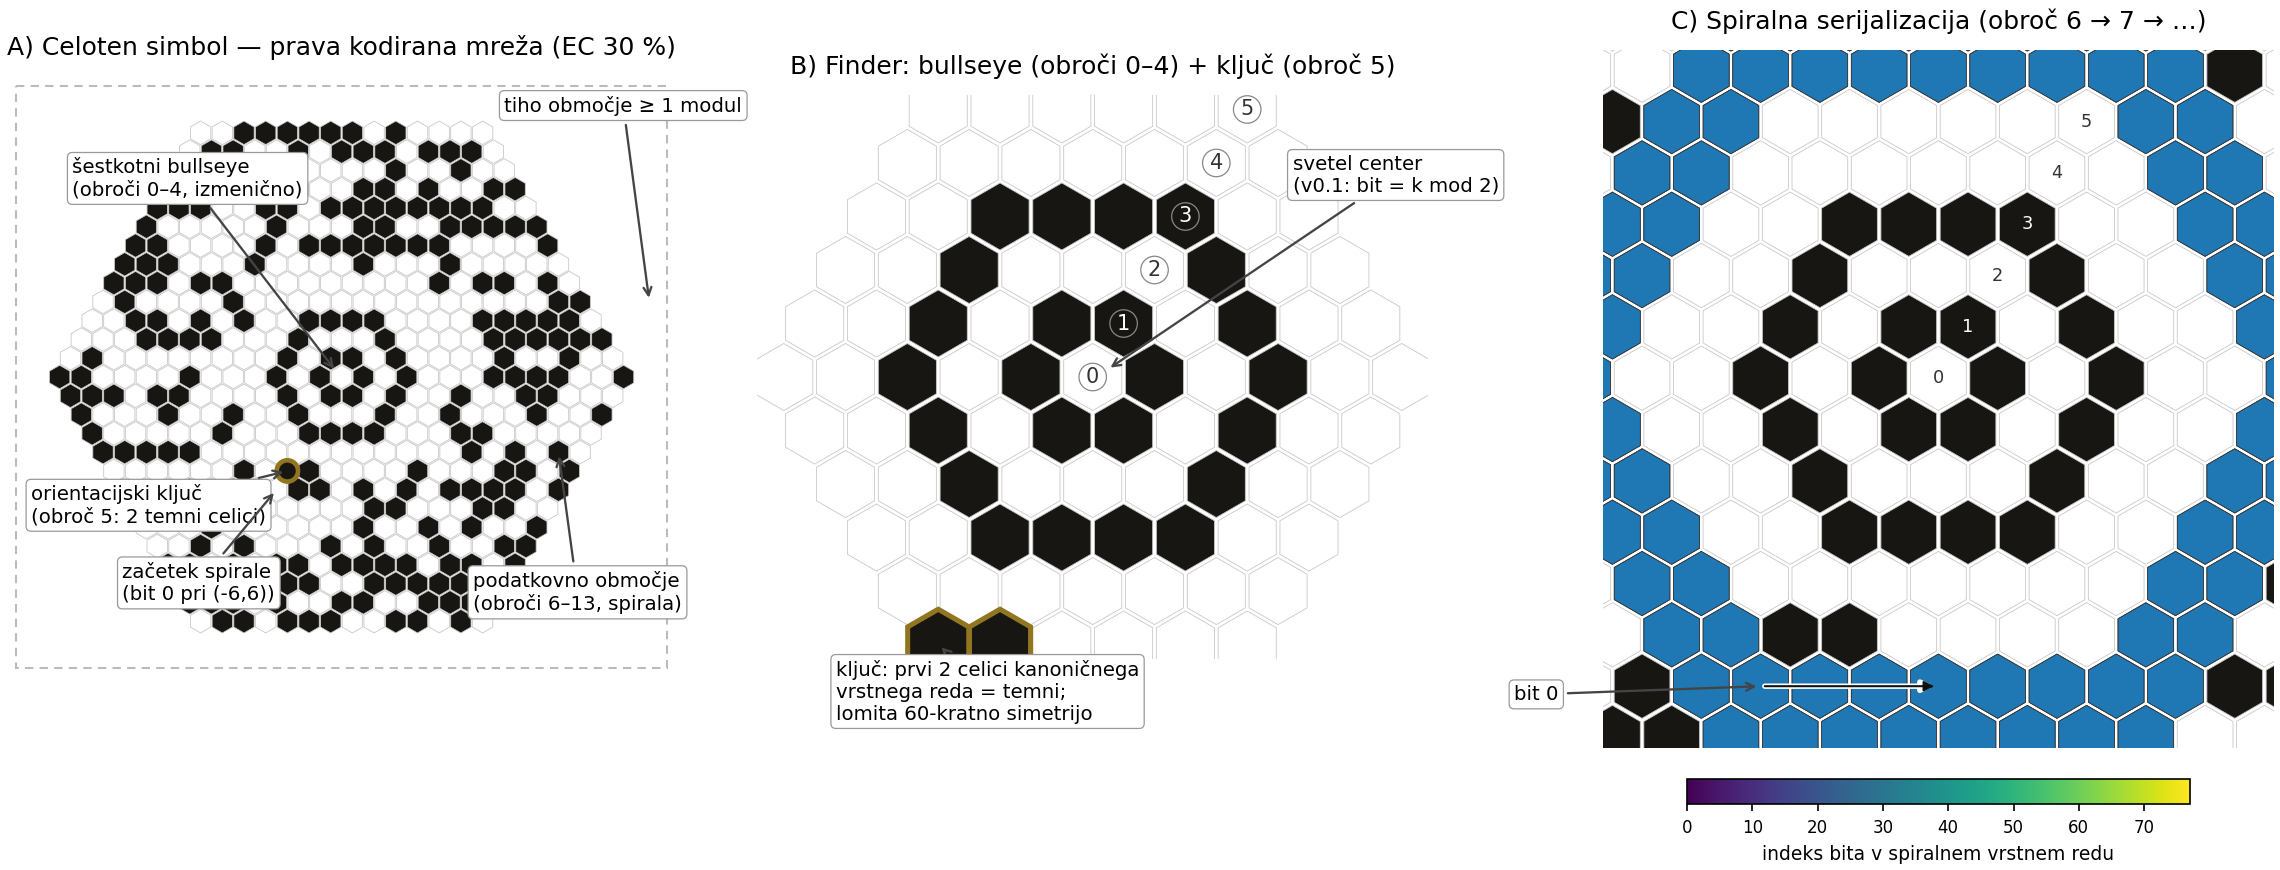
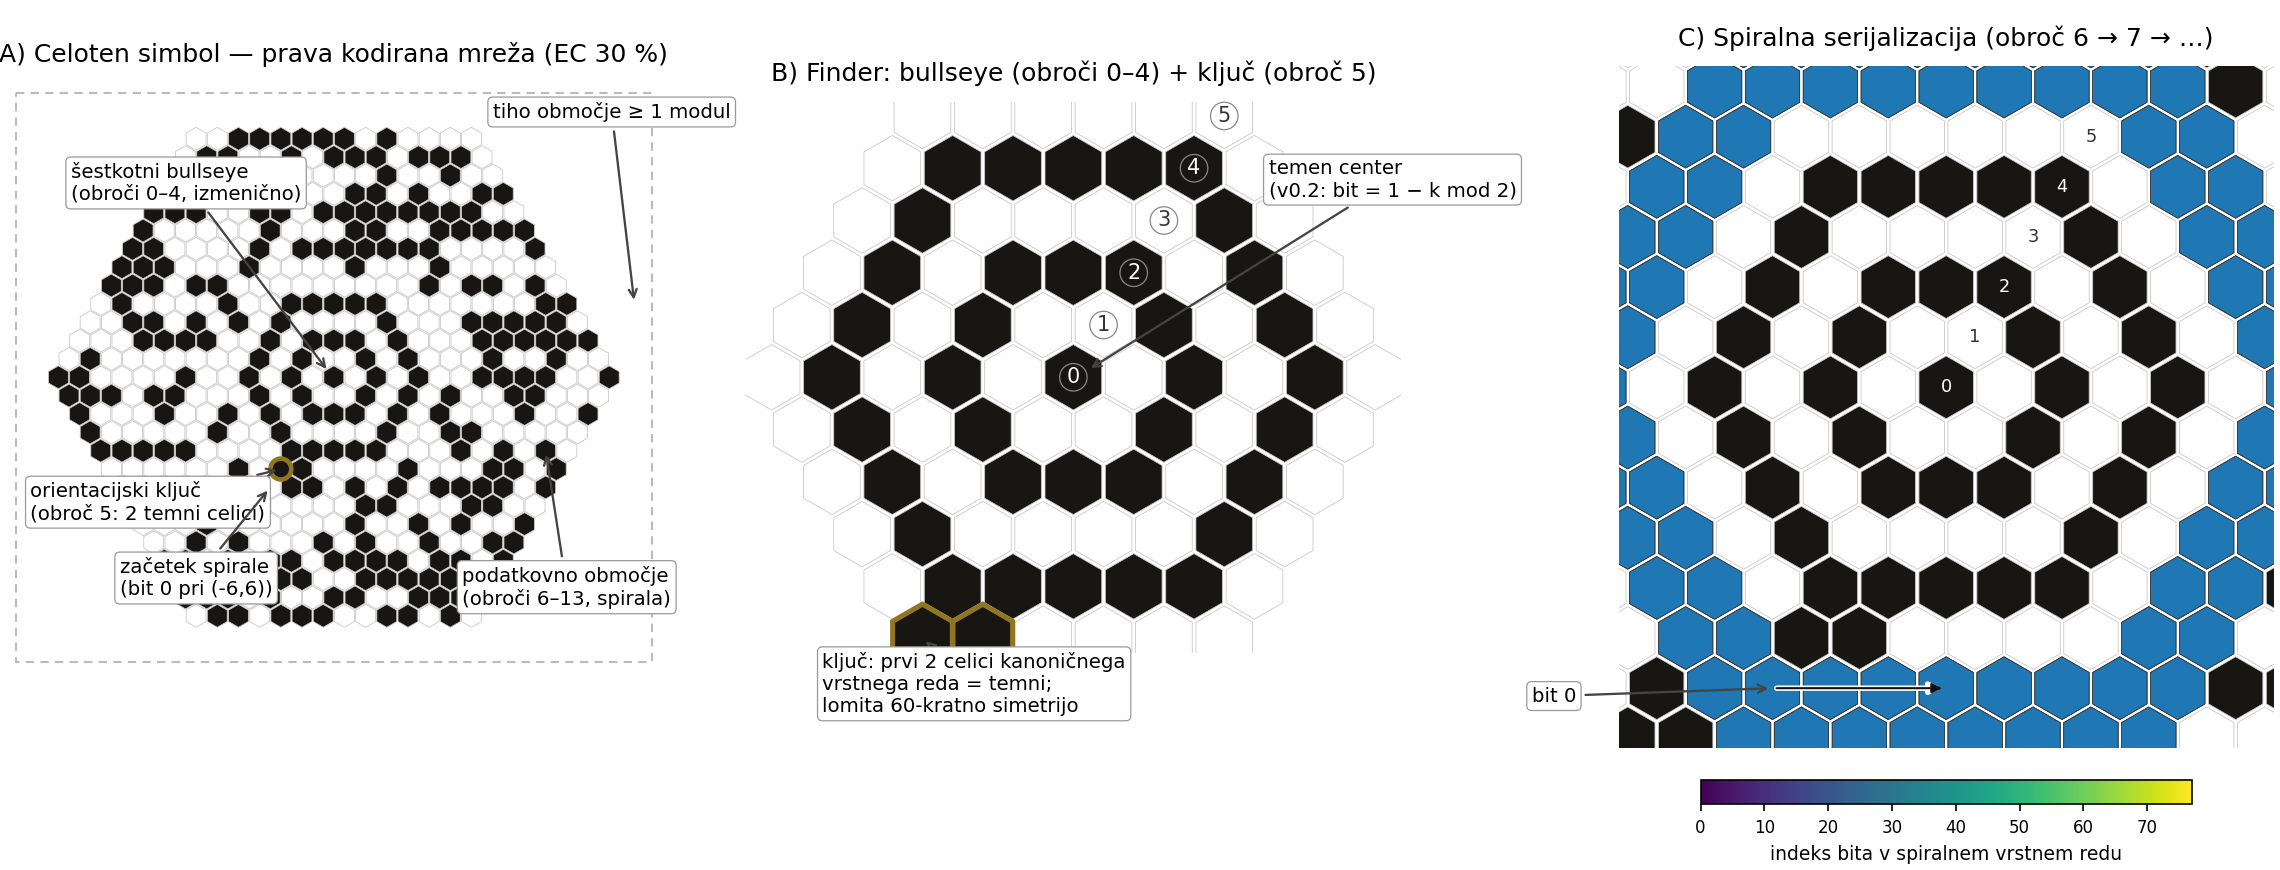
v0.2.0: dark bullseye centre (breaking format change)

diff --git a/test_vectors/generate_vectors.py b/test_vectors/generate_vectors.py
@@ -1,8 +1,8 @@
 #!/usr/bin/env python3
-"""Generate / verify conformance test vectors for Hexatess Code v0.1.
+"""Generate / verify conformance test vectors for Hexatess Code v0.2.
 
-The committed file ``vectors_v0.1.json`` lets independent implementations
-(any language) verify conformance to specification v0.1:
+The committed file ``vectors_v0.2.json`` lets independent implementations
+(any language) verify conformance to specification v0.2:
 
 * ``encode_vectors`` -- fixed inputs (text, ec_pct) with the expected
   symbol parameters, protected mode message and the full canonical grid
@@ -41,7 +41,7 @@ from hexatess import (                      # noqa: E402
 )
 
 HERE = os.path.dirname(os.path.abspath(__file__))
-VECTOR_FILE = os.path.join(HERE, "vectors_v0.1.json")
+VECTOR_FILE = os.path.join(HERE, "vectors_v0.2.json")
 
 GENERATED = "2026-08-30"
 
@@ -52,7 +52,7 @@ ENCODE_CASES = [
     ("hello", "Hello, Hexatess!", 30),
     ("utf8_slo", "ŠČŽ življenje je kodiranje", 30),
     ("utf8_emoji", "bee \U0001F41D hive", 50),
-    ("mid", "Hexatess Code v0.1 reference vector", 55),
+    ("mid", "Hexatess Code v0.2 reference vector", 55),
     ("digits", "1234567890" * 8, 10),
     ("url", "https://example.org/hexatess", 25),
     ("min_ec", "compact", 5),
@@ -194,7 +194,7 @@ def build_vectors():
 def main(argv=None):
     ap = argparse.ArgumentParser(description=__doc__)
     ap.add_argument("--write", action="store_true",
-                    help="write vectors_v0.1.json")
+                    help="write vectors_v0.2.json")
     ap.add_argument("--verify", action="store_true",
                     help="verify committed vectors against the library")
     args = ap.parse_args(argv)

diff --git a/src/hexatess/encoder.py b/src/hexatess/encoder.py
@@ -2,10 +2,11 @@
 
 Turns UTF-8 text into a hexagonal module grid ``{(q, r): 0|1}``.
 
-Layout summary (specification v0.1):
+Layout summary (specification v0.2):
 
 * rings 0..4 -- hexagonal bullseye finder, ring ``k`` filled with
-  ``k mod 2`` (bit 1 = dark module; the centre module is LIGHT in v0.1);
+  ``1 - (k mod 2)`` (bit 1 = dark module; the centre module is DARK
+  since spec v0.2);
 * ring 5     -- orientation key: all modules light except the first two
   cells of ``hex_ring(5)`` (``(-5, 5)`` and ``(-4, 5)``) which are dark;
 * rings 6..rmax -- payload bits in spiral order: header (80 bits,
@@ -62,7 +63,8 @@ def encode(text: str, ec_pct: int = 30, mask_id="auto", min_rings=None):
     data = text.encode("utf-8")
     if len(data) > MAX_DATA_BYTES:
         raise ValueError(
-            "v0.1 supports up to %d bytes of data" % MAX_DATA_BYTES)
+            "the radius limit supports up to %d bytes of data"
+            % MAX_DATA_BYTES)
     blocks = plan_blocks(len(data), ec_pct)
     ecc_total = sum(e for _, e in blocks)
     need_bits = MODE_BITS + (len(data) + ecc_total) * 8
@@ -110,7 +112,7 @@ def encode(text: str, ec_pct: int = 30, mask_id="auto", min_rings=None):
     grid = {}
     for k in range(BULLSEYE_RINGS + 1):
         for c in hex_ring(k):
-            grid[c] = k % 2          # centre LIGHT in v0.1, rings alternate
+            grid[c] = 1 - (k % 2)    # centre DARK (v0.2), rings alternate
     for c in hex_ring(KEY_RING):
         grid[c] = 0
     key = hex_ring(KEY_RING)

diff --git a/src/hexatess/__init__.py b/src/hexatess/__init__.py
@@ -1,6 +1,6 @@
 """Hexatess Code - an experimental 2D barcode on a hexagonal grid.
 
-Reference implementation of specification v0.1.  The symbol is a
+Reference implementation of specification v0.2.  The symbol is a
 hexagonal lattice with a hexagonal bullseye finder, an
 orientation key ring, spiral serialization from the centre outwards,
 a Reed-Solomon protected header and a continuously selectable
@@ -18,7 +18,7 @@ Quick start
 'Hello, Hexatess!'
 
 See SPECIFICATION.md in the repository for the full format
-specification, and test_vectors/vectors_v0.1.json for conformance
+specification, and test_vectors/vectors_v0.2.json for conformance
 data usable by independent implementations.
 """
 
@@ -57,8 +57,8 @@ from .reedsolomon import rs_correct_msg, rs_encode_msg
 from .render import render, sample_grid_from_image
 from .resilience import add_blob_damage, add_random_noise, run_tests
 
-__version__ = "0.1.0"
-SPEC_VERSION = "0.1"
+__version__ = "0.2.0"
+SPEC_VERSION = "0.2"
 
 __all__ = [
     # high-level API

diff --git a/src/hexatess/cli.py b/src/hexatess/cli.py
@@ -25,7 +25,7 @@ def main(argv=None):
     ap = argparse.ArgumentParser(
         prog="hexatess",
         description="Hexatess Code - hexagonal-grid 2D barcode "
-                    "(reference implementation, spec v0.1)")
+                    "(reference implementation, spec v0.2)")
     ap.add_argument("text", nargs="?", help="text to encode (UTF-8)")
     ap.add_argument("-o", "--output", default="hexatess.png",
                     help="output PNG path (default: %(default)s)")
@@ -46,7 +46,7 @@ def main(argv=None):
         run_tests()
 
     if args.demo or args.text:
-        text = args.text or "Hexatess Code v0.1 - " * 6
+        text = args.text or "Hexatess Code v0.2 - " * 6
         grid, params = encode(text, ec_pct=args.ec, mask_id="auto"
                               if args.mask is None else args.mask)
         render(grid, args.output, size_px=args.size)

diff --git a/src/hexatess/header.py b/src/hexatess/header.py
@@ -7,7 +7,7 @@ import math
 from .reedsolomon import rs_encode_msg, rs_correct_msg
 
 # ----------------------------------------------------------------------
-# Symbol constants (fixed in specification v0.1)
+# Symbol constants (fixed in specification v0.2)
 # ----------------------------------------------------------------------
 
 BULLSEYE_RINGS = 4     # rings 0..4 form the hexagonal bullseye finder

diff --git a/tests/test_conformance.py b/tests/test_conformance.py
@@ -16,7 +16,7 @@ from test_vectors.generate_vectors import grid_from_hex
 
 HERE = os.path.dirname(os.path.abspath(__file__))
 ROOT = os.path.dirname(HERE)
-VECTOR_FILE = os.path.join(ROOT, "test_vectors", "vectors_v0.1.json")
+VECTOR_FILE = os.path.join(ROOT, "test_vectors", "vectors_v0.2.json")
 
 with open(VECTOR_FILE, "r", encoding="utf-8") as fh:
     VECTORS = json.load(fh)

diff --git a/tests/test_codec.py b/tests/test_codec.py
@@ -67,7 +67,7 @@ def test_bullseye_pattern():
     grid, params = encode("bullseye", ec_pct=30)
     for k in range(BULLSEYE_RINGS + 1):
         for c in hex_ring(k):
-            assert grid[c] == k % 2
+            assert grid[c] == 1 - (k % 2)   # centre DARK (spec v0.2)
     key = hex_ring(KEY_RING)
     for c in key[2:]:
         assert grid[c] == 0

diff --git a/src/hexatess/decoder.py b/src/hexatess/decoder.py
@@ -28,7 +28,7 @@ def decode(grid, params=None):
     grid : dict
         Mapping ``{(q, r): 0|1}``.
     params : dict, optional
-        Ignored; kept for API symmetry with v0.1 of the prototype.
+        Ignored; kept for API symmetry with the original prototype.
 
     Returns
     -------

diff --git a/SPECIFICATION.md b/SPECIFICATION.md
@@ -1,4 +1,4 @@
-# Hexatess Code Specification — Version 0.1
+# Hexatess Code Specification — Version 0.2
 
 **Status:** Stable draft (reference implementation available)
 **Date:** 2026-08-30
@@ -65,7 +65,7 @@ A Hexatess Code symbol consists of:
 
 | Region        | Rings        | Content                                        |
 |---------------|--------------|------------------------------------------------|
-| Bullseye      | 0 … 4        | finder pattern, `bit = k mod 2`                |
+| Bullseye      | 0 … 4        | finder pattern, `bit = 1 − (k mod 2)`          |
 | Key ring      | 5            | orientation key (see §2.2)                     |
 | Data region   | 6 … rmax     | header + masked payload, spiral order (§3, §4) |
 
@@ -74,12 +74,15 @@ contains `3·rmax·(rmax+1) + 1 − 91` modules.
 
 ### 2.1 Bullseye finder
 
-For every module of ring `k`, `0 ≤ k ≤ 4`, set `bit = k mod 2`.
-Consequence (v0.1): the **centre module is LIGHT** (ring 0 → 0),
-ring 1 is dark, ring 2 light, ring 3 dark, ring 4 light.
-*Note:* this polarity is a historical property of v0.1 kept for
-backward-compatible conformance; a dark centre is a v0.2 candidate
-change (see §11).
+For every module of ring `k`, `0 ≤ k ≤ 4`, set `bit = 1 − (k mod 2)`.
+Consequence (v0.2): the **centre module is DARK** (ring 0 → 1),
+ring 1 is light, ring 2 dark, ring 3 light, ring 4 dark.
+*Note:* v0.1 used the opposite polarity (light centre, `bit = k mod 2`).
+The dark centre improves finder detectability — it gives the bullseye
+a solid high-contrast core that survives blur and low-resolution
+imaging, matching the finder conventions of Aztec Code and MaxiCode.
+The change is format-breaking; conformance vectors for v0.1 are
+superseded.
 
 ### 2.2 Orientation key (ring 5)
 
@@ -261,7 +264,7 @@ the exact block rule of §5.2):
 | 28  | 2346 | 265 | 216 | 181 | 148 |
 | 31  | 2886 | 329 | 266 | 225 | 183 |
 
-The 12-bit length field allows up to 4095 bytes, but the v0.1 radius
+The 12-bit length field allows up to 4095 bytes, but the radius
 limit (31 rings) caps capacity at **329 bytes (EC 5)**. Larger radii
 are a v0.2 candidate extension.
 
@@ -293,15 +296,15 @@ are a v0.2 candidate extension.
    RS-correct each block independently; reject on failure.
 6. Decode the payload bytes as UTF-8.
 
-## 11. Design notes and v0.2 candidates
+## 11. Design notes and future candidates
 
-* **Centre polarity.** v0.1's bullseye centre is LIGHT (bit = k mod 2).
-  A dark centre would improve finder detectability; changing it is a
-  breaking change reserved for v0.2.
+* **Centre polarity (resolved in v0.2).** The bullseye centre is DARK
+  (`bit = 1 − (k mod 2)`), chosen for stronger detectability; the
+  opposite light-centre polarity of v0.1 is deprecated.
 * **Erasure decoding.** Modules occluded by a detected blob can be
   declared erasures, doubling correctable symbol counts (RS corrects
-  `nsym` erasures vs `nsym/2` errors). Not part of v0.1.
-* **Camera decoding.** v0.1 defines only ideal-grid sampling; finder
+  `nsym` erasures vs `nsym/2` errors). Not part of v0.2.
+* **Camera decoding.** v0.2 defines only ideal-grid sampling; finder
   detection and perspective correction are ecosystem work items.
 * **Larger radii.** Extending `rmax` beyond 31 requires only widening
   the header's radius field (a breaking change).
@@ -313,7 +316,7 @@ are a v0.2 candidate extension.
 ## 12. Conformance
 
 An implementation is conformant with this specification if, for every
-vector in `test_vectors/vectors_v0.1.json`:
+vector in `test_vectors/vectors_v0.2.json`:
 
 1. its encoder produces the recorded symbol parameters, mode message
    bytes and canonical grid serialization for the given input; and
@@ -334,7 +337,7 @@ hexadecimal.
 | `BULLSEYE_RINGS`| 4     | finder rings (0…4)                     |
 | `KEY_RING`      | 5     | orientation key ring                   |
 | `DATA_RING0`    | 6     | first payload ring                     |
-| `MAX_RINGS`     | 31    | radius limit (v0.1)                    |
+| `MAX_RINGS`     | 31    | radius limit (v0.2)                    |
 | `BLOCK_DATA_MAX`| 50    | data bytes per RS block                |
 | `MODE_BYTES`    | 5     | header data bytes                      |
 | `MODE_ECC`      | 5     | header ECC symbols                     |

diff --git a/README.sl.md b/README.sl.md
@@ -1,4 +1,9 @@
 # Hexatess Koda 🐝 (slovenska verzija)
+[![PyPI](https://img.shields.io/pypi/v/hexatess-code)](https://pypi.org/project/hexatess-code/) 
+
+[![Python](https://img.shields.io/pypi/pyversions/hexatess-code)](https://pypi.org/project/hexatess-code/) 
+
+[![CI](https://github.com/lovro-abram/hexatess-code/actions/workflows/ci.yml/badge.svg)](https://github.com/lovro-abram/hexatess-code/actions/workflows/ci.yml) 
 
 **Eksperimentalna 2D koda na šestkotni mreži** — s šestkotnim
 bullseye najditeljem, spiralno serijalizacijo in prosto izbiro
@@ -22,8 +27,8 @@ besedilo, stat = decode(grid)       # ('Živjo, Hexatess!', {...})
   0–4), orientacijski ključ (obroč 5: dve temni celici), podatkovno
   območje (obroči 6 …) v spiralnem vrstnem redu in tiho območje
   vsaj 1 modul;
-* **B** — bližnjica finderja: svetel center (pravilo v0.1:
-  `bit = obroč mod 2`), izmenično temni/svetli obroči in ključ — prvi
+* **B** — bližnjica finderja: temen center (pravilo v0.2:
+  `bit = 1 − (obroč mod 2)`), izmenično temni/svetli obroči in ključ — prvi
   dve celici kanoničnega vrstnega reda obroča 5 sta temni, kar lomi
   60-kratno simetrijo in označuje smer začetka spirale;
 * **C** — spiralni vrstni red bitov čez obroča 6–7 (bit 0 na celici
@@ -103,7 +108,7 @@ celih bajtov.
 Format je namenoma **specifikacija-na-prvem-mestu**: vse, kar potrebujete
 za neodvisno implementacijo, je v [`SPECIFICATION.md`](SPECIFICATION.md),
 datoteka
-[`test_vectors/vectors_v0.1.json`](test_vectors/vectors_v0.1.json)
+[`test_vectors/vectors_v0.2.json`](test_vectors/vectors_v0.2.json)
 pa vsebuje fiksne vhode/izhode (mreže, glave, poškodovane simbole,
 pričakovane rezultate) za preverjanje skladnosti. Če vaš dekodirnik v
 Rust/Go/JS prenese vektorje, govori Hexatess.

diff --git a/README.md b/README.md
@@ -1,4 +1,9 @@
 # Hexatess Code 🐝
+[![PyPI](https://img.shields.io/pypi/v/hexatess-code)](https://pypi.org/project/hexatess-code/) 
+
+[![Python](https://img.shields.io/pypi/pyversions/hexatess-code)](https://pypi.org/project/hexatess-code/) 
+
+[![CI](https://github.com/lovro-abram/hexatess-code/actions/workflows/ci.yml/badge.svg)](https://github.com/lovro-abram/hexatess-code/actions/workflows/ci.yml) 
 
 **An experimental 2D barcode on a hexagonal grid** — with a hexagonal
 bullseye finder, spiral serialization and a continuously selectable
@@ -21,7 +26,7 @@ text, stats = decode(grid)          # ('Hello, Hexatess!', {...})
 * **A** — a real encoded symbol: hexagonal bullseye finder (rings 0–4),
   orientation key (ring 5: two dark cells), data region (rings 6…)
   filled in spiral order, and a quiet zone of at least 1 module;
-* **B** — finder close-up: light centre (v0.1 rule `bit = ring mod 2`),
+* **B** — finder close-up: dark centre (rule `bit = 1 − ring mod 2`),
   alternating dark/light rings, and the key — the first two canonical
   ring-5 cells set dark, breaking the 60-fold symmetry and marking the
   spiral start direction;
@@ -102,7 +107,7 @@ concentrate inside whole bytes.
 The format is deliberately **specification-first**: everything needed
 for an independent implementation is in
 [`SPECIFICATION.md`](SPECIFICATION.md), and
-[`test_vectors/vectors_v0.1.json`](test_vectors/vectors_v0.1.json)
+[`test_vectors/vectors_v0.2.json`](test_vectors/vectors_v0.2.json)
 contains fixed inputs/outputs (grids, headers, damaged symbols, expected
 results) to verify conformance. If your Rust/Go/JS decoder passes the
 vectors, it speaks Hexatess Code.

diff --git a/CONTRIBUTING.md b/CONTRIBUTING.md
@@ -11,7 +11,7 @@ Thank you for helping an experimental format grow! 🐝
    first.
 2. **Conformance vectors are sacred.** If your change alters any byte
    of any generated symbol, the vectors in
-   `test_vectors/vectors_v0.1.json` must be regenerated
+   `test_vectors/vectors_v0.2.json` must be regenerated
    (`python test_vectors/generate_vectors.py --write`) and the reason
    must be documented. Vectors are only regenerated for new spec
    versions, never silently.
@@ -33,7 +33,7 @@ These are the highest-value contributions for making the format
 adoptable:
 
 * **JavaScript/TypeScript SDK** — port the encoder + renderer to the
-  browser; verify against `test_vectors/vectors_v0.1.json`.
+  browser; verify against `test_vectors/vectors_v0.2.json`.
 * **Camera decoder (Python or JS)** — bullseye detection (concentric
   alternating ring search) + orientation from the ring-5 key pair +
   perspective correction; the spec's §10 describes the reference
